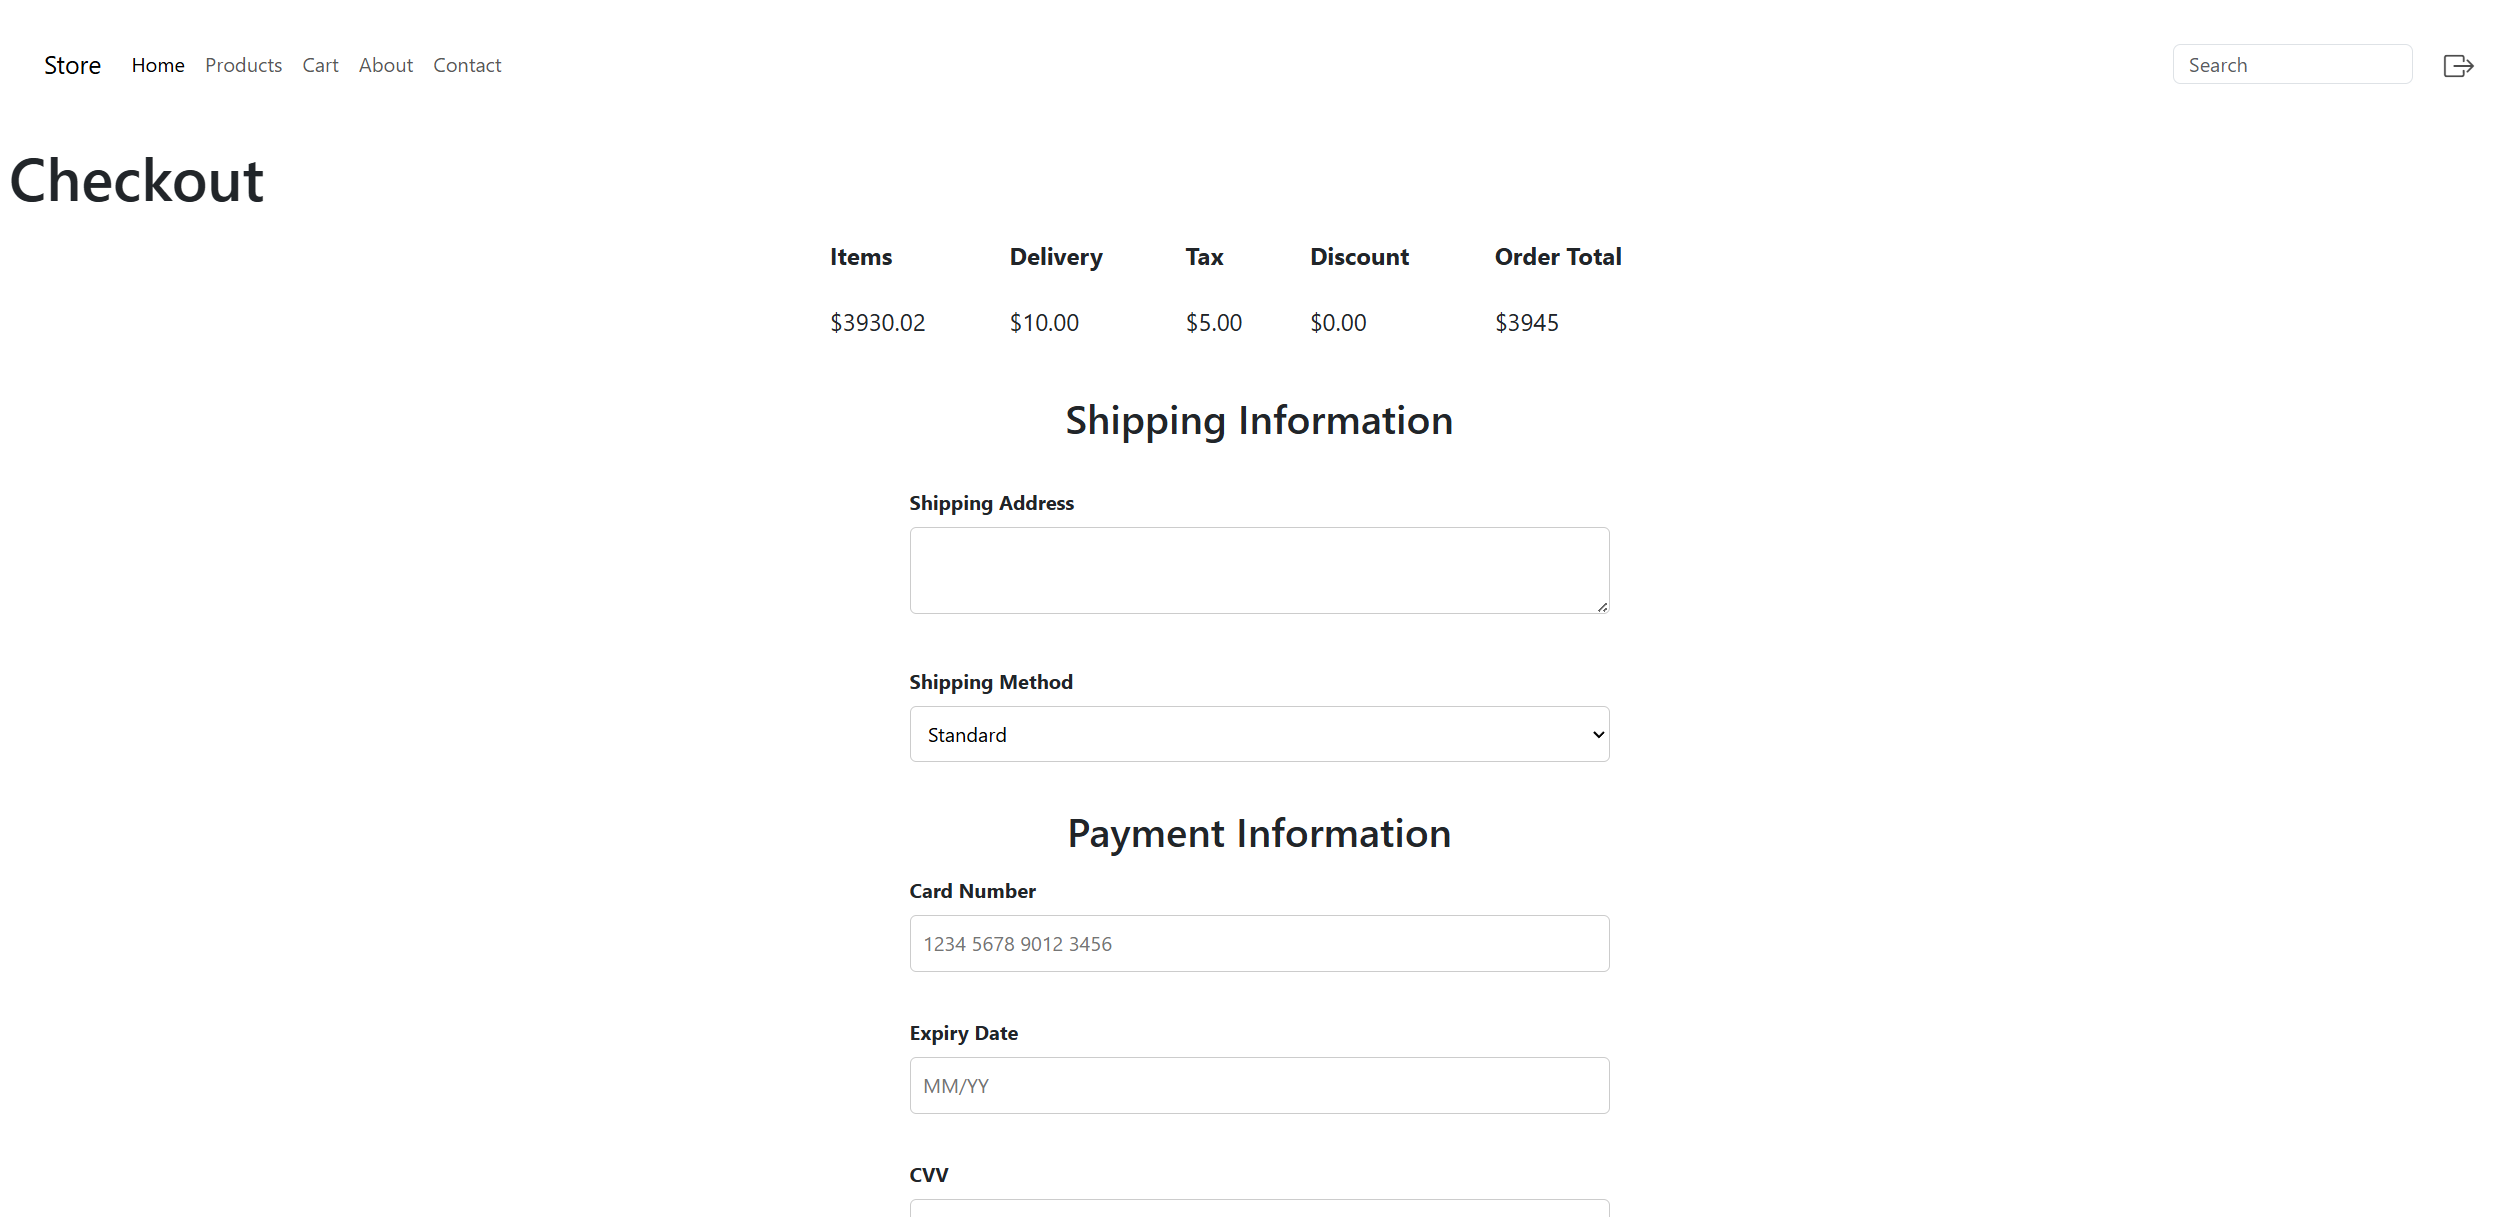
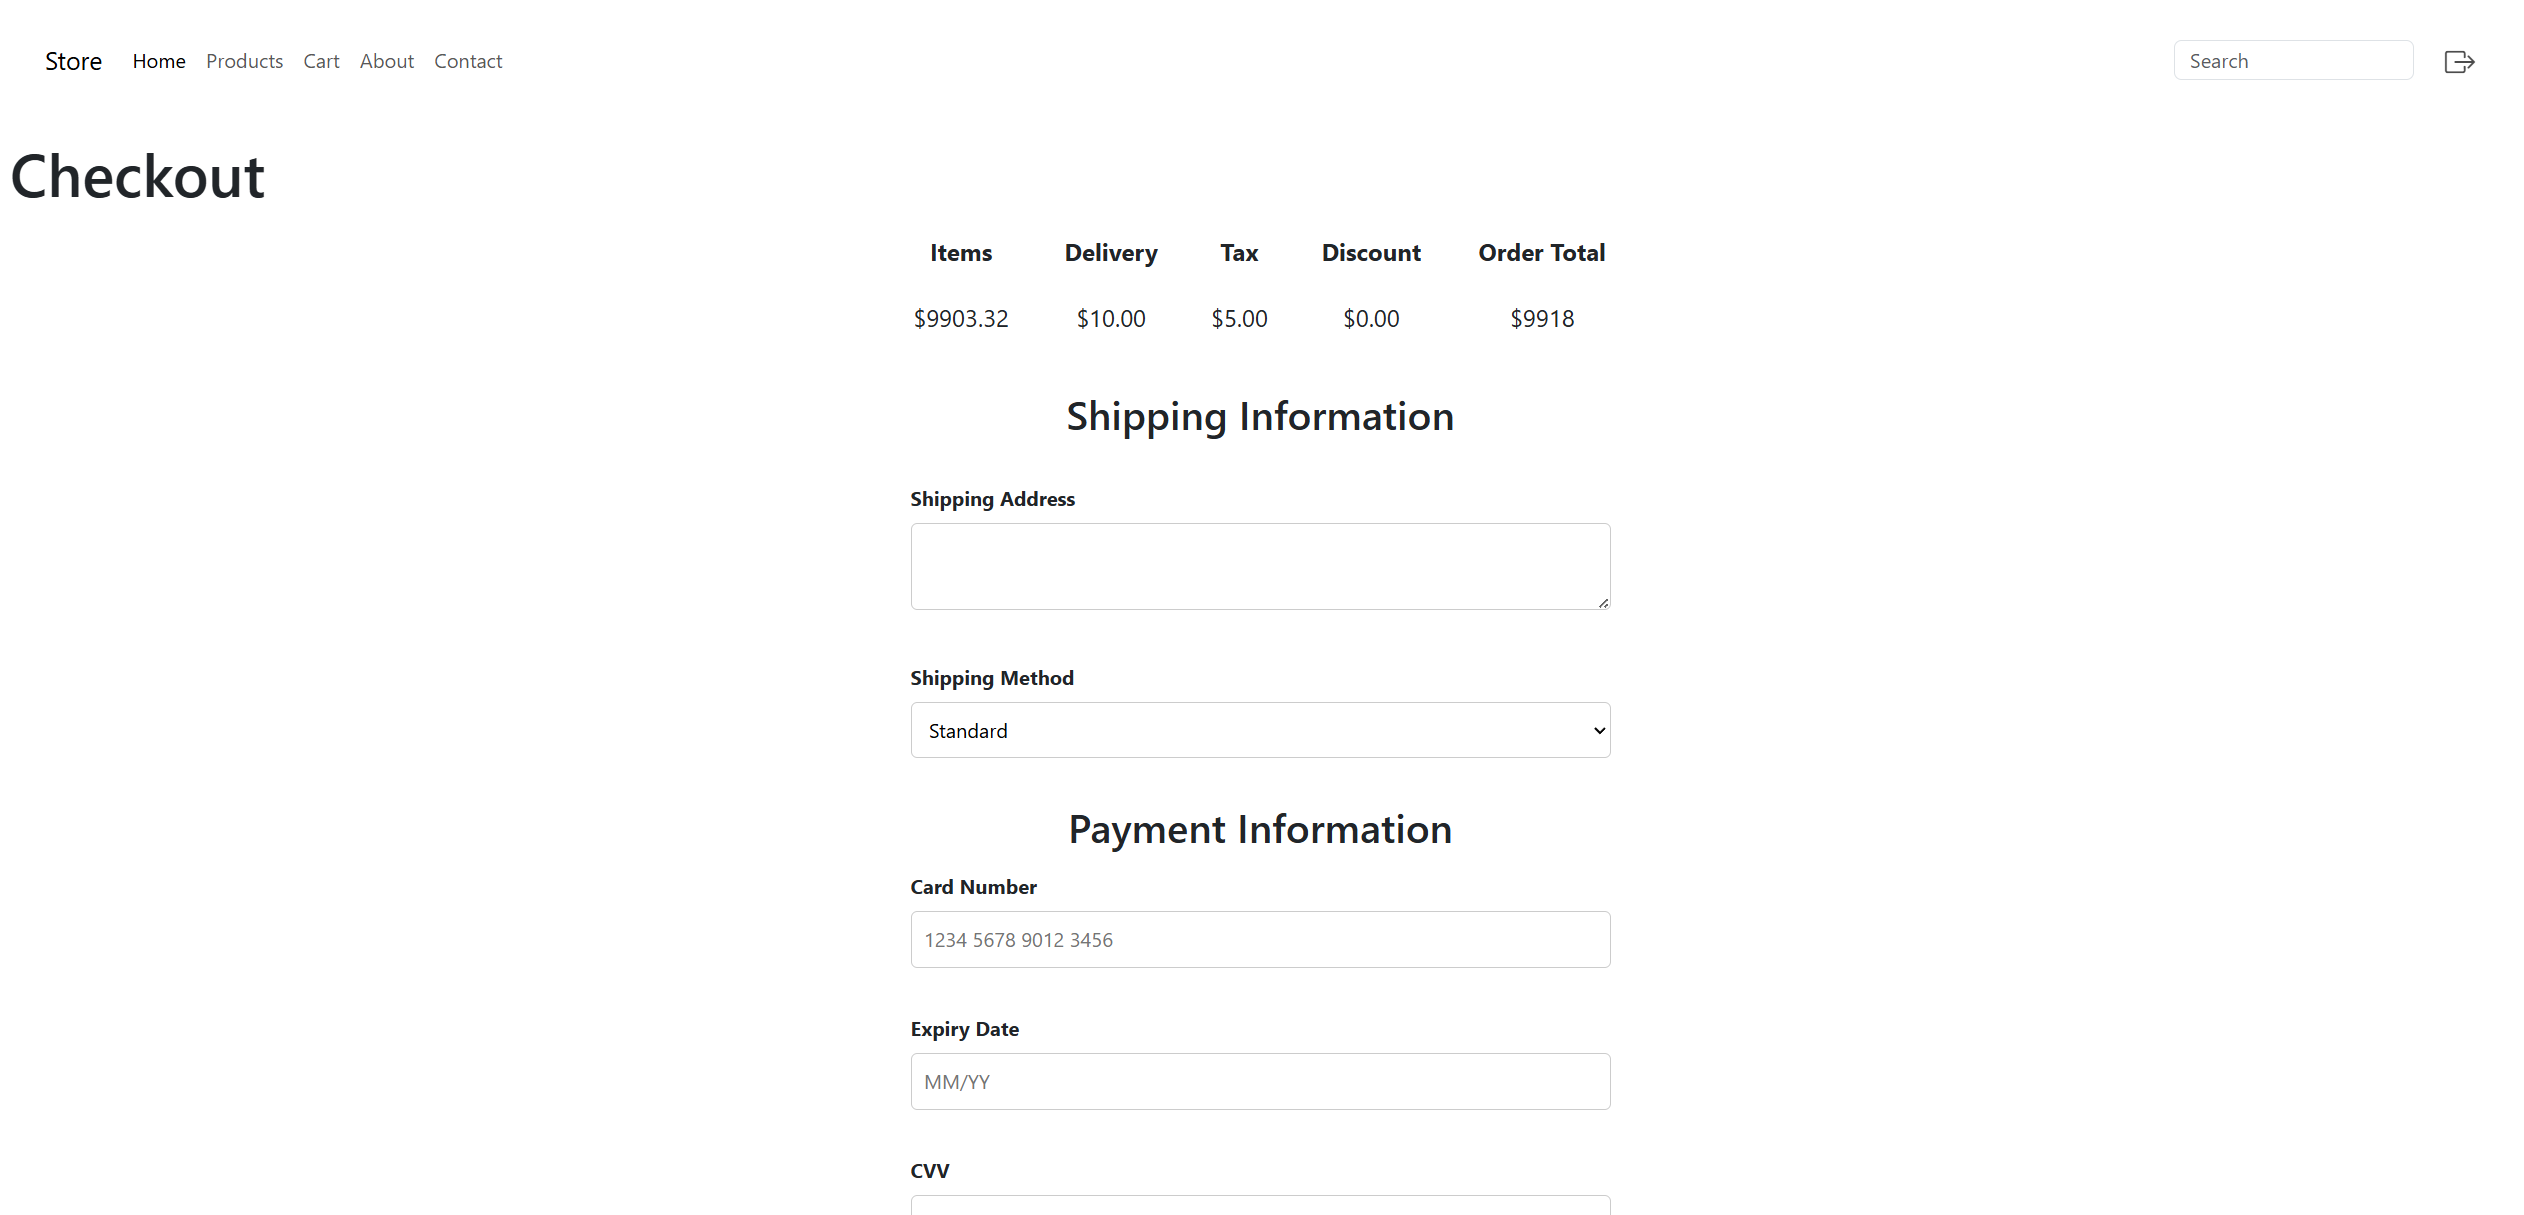
sync

diff --git a/store/static/css/checkout.css b/store/static/css/checkout.css
@@ -1,26 +1,33 @@
 .cart-review {
-    display: flex;
-    justify-content: center;
-    align-items: center;
-    width: 70%;
+    width: 100%;
+    max-width: 37.5rem;
     margin: 0 auto;
+    box-sizing: border-box;
 }
 
 .checkout-table {
     width: 100%;
-    max-width: 50%;
     border-collapse: collapse;
     margin-bottom: 2rem;
+    table-layout: auto;
 }
-
 
 .checkout-table th,
 .checkout-table td {
-    padding: 0.75rem;
+    padding: 0.75rem 1rem;
     text-align: left;
     font-size: clamp(0.9rem, 2.5vw, 1.2rem);
-    text-wrap: nowrap;
+    white-space: normal;
+    word-break: break-word;
+    vertical-align: top;
+    text-align: center;
 }
+
+.checkout-table td:first-child,
+.checkout-table th:first-child {
+    min-width: 6rem;
+}
+
 
 .total-price {
     text-align: center;

diff --git a/store/static/css/product-grid.css b/store/static/css/product-grid.css
@@ -1,7 +1,7 @@
 .product-grid {
     display: grid;
     grid-template-columns: repeat(auto-fill, minmax(clamp(12rem, 12vw, 16rem), 1fr));
-    gap: 3.8rem;
+    gap: clamp(1rem, 2vw, 2rem);
     margin-top: 2.5rem;
     padding: 0 1rem;
 }

diff --git a/store/static/css/product-detail.css b/store/static/css/product-detail.css
@@ -3,6 +3,7 @@
     flex-direction: column;
     justify-content: center;
     align-items: center;
+    margin-bottom: 3rem;
 }
 
 #quantity-form {

diff --git a/store/static/css/home.css b/store/static/css/home.css
@@ -5,4 +5,5 @@ h1 {
     margin-top: 8.5rem;
     font-size: clamp(1.75rem, 5vw, 3.75rem) !important;
     white-space: nowrap;
+    
 }
